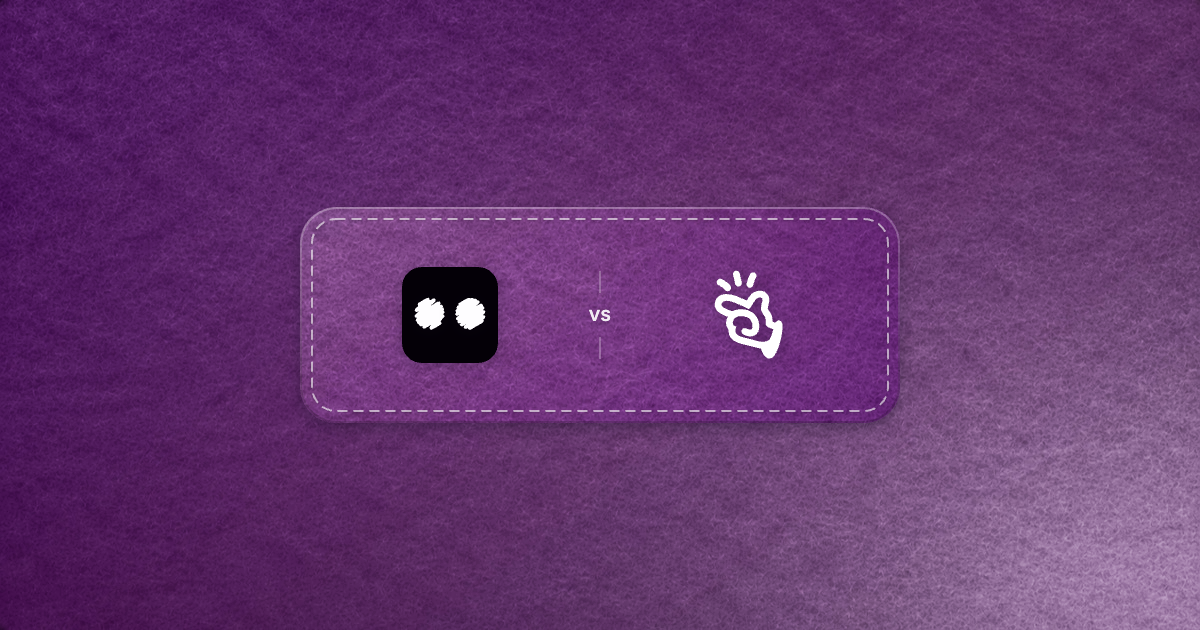
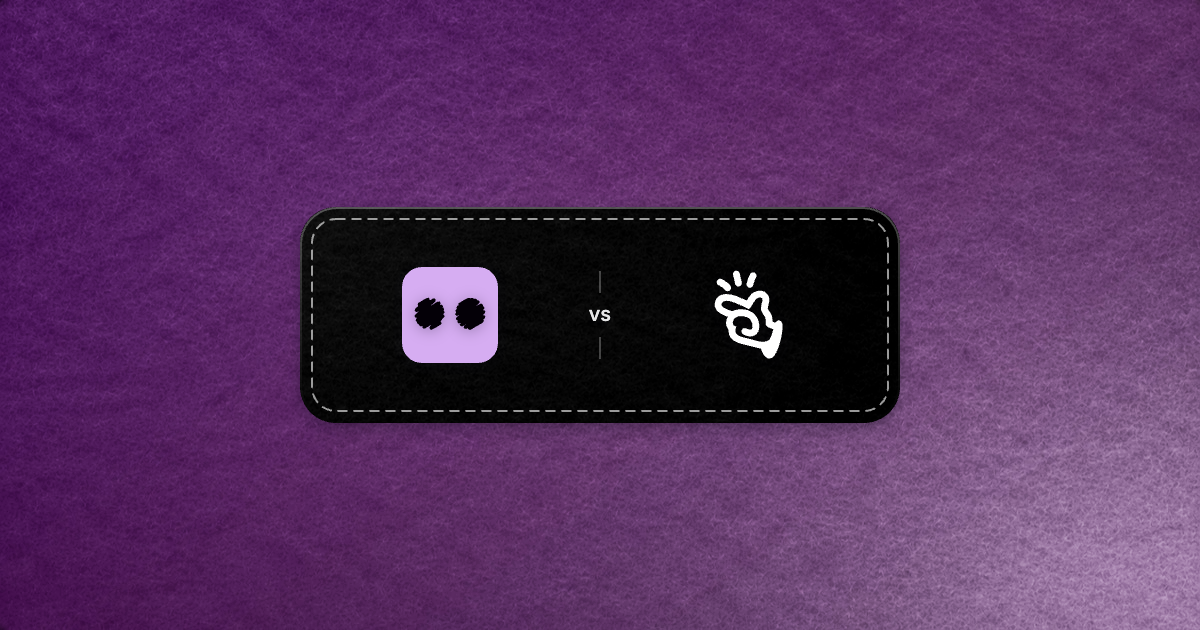
Make the compare card patches black felt
Every patch is now black felt, cut from the card's own felt without its
colour, so it never shows a gap on the wide roundup plate. OpenBot uses
its default lilac logo on it.

Changed region(s): [[0.2467, 0.3016, 0.7708, 0.6937]]

diff --git a/apps/auth-api/content-image-page.ts b/apps/auth-api/content-image-page.ts
@@ -25,8 +25,6 @@ const TITLE_MAX_LINES_WITH_LOCKUP = 2;
 /** `--openbot-logo-production` and `--openbot-logo-eye`. */
 const LOGO_BACKGROUND = "#d6adf2";
 const LOGO_EYE = "#040007";
-/** The black logo with light eyes from the brand rules, for the felt patch. */
-const DARK_LOGO = { background: "#040007", eye: "#fefdff" } as const;
 const LIGHT_LOGO = { background: LOGO_BACKGROUND, eye: LOGO_EYE } as const;
 
 /** The felt under a centred card is darkened to this average luma, so white marks on the patch stay readable. */
@@ -299,8 +297,8 @@ function drawCenteredLockup(context: CanvasRenderingContext2D, job: ContentImage
   const logoTop = y + (plateHeight - logoSize) / 2;
   context.save();
   setMarkShadow(context, unit);
-  drawMark(context, lockup.left?.mark ?? "openbot", x + plateWidth * 0.25 - logoSize / 2, logoTop, logoSize, DARK_LOGO);
-  drawMark(context, lockup.rivalMark, x + plateWidth * 0.75 - logoSize / 2, logoTop, logoSize, DARK_LOGO);
+  drawMark(context, lockup.left?.mark ?? "openbot", x + plateWidth * 0.25 - logoSize / 2, logoTop, logoSize);
+  drawMark(context, lockup.rivalMark, x + plateWidth * 0.75 - logoSize / 2, logoTop, logoSize);
   context.restore();
 
   // The hairline, broken around "vs".
@@ -353,7 +351,7 @@ function drawCenteredMarkRow(
   context.save();
   setMarkShadow(context, unit);
   marks.forEach((mark, index) => {
-    drawMark(context, mark, x + padX + index * (size + gap), y + padY, size, DARK_LOGO);
+    drawMark(context, mark, x + padX + index * (size + gap), y + padY, size);
   });
   context.restore();
 }
@@ -382,8 +380,8 @@ function drawMarkRow(
 }
 
 /**
- * A patch of the same felt sewn onto the card: a lighter piece cut from another
- * part of the background, a stitch just inside its edge and a short shadow.
+ * A patch of black felt sewn onto the card: a stitch just inside its edge, a
+ * cut edge lit from above and a short shadow.
  */
 function drawFeltPatch(
   context: CanvasRenderingContext2D,
@@ -412,11 +410,12 @@ function drawFeltPatch(
   context.save();
   roundedRect(context, x, y, width, height, radius);
   context.clip();
-  // Another part of the felt, turned half a turn, so its fibres do not line up.
-  context.translate(x + width / 2, y + height / 2);
+  // Black felt: the card's own felt without its colour, turned half a turn about
+  // the middle of the card so its fibres do not line up and it covers any plate.
+  context.translate(job.width / 2, job.height / 2);
   context.rotate(Math.PI);
-  context.filter = "brightness(1.14) saturate(1.05)";
-  context.drawImage(under, -job.width / 2 + 90 * unit, -job.height / 2 + 40 * unit);
+  context.filter = "grayscale(1) contrast(1.8) brightness(0.26)";
+  context.drawImage(under, -job.width / 2, -job.height / 2);
   context.restore();
 
   // The cut edge: lit at the top, in shade at the bottom.

diff --git a/changelog.d/site-social-images-teams-changelog-download.md b/changelog.d/site-social-images-teams-changelog-download.md
@@ -4,4 +4,4 @@
   and name. The agent name is now heavier, like the headlines of the openbot.run social cards.
   Agents that you published before keep their old preview until you publish them again.
 - Show the "openbot." wordmark on the link previews of the openbot.run news articles.
-- Show the logos of the compared apps on a felt patch in the middle of a felt background on the link previews of the openbot.run comparison pages.
+- Show the logos of the compared apps on a black felt patch in the middle of a felt background on the link previews of the openbot.run comparison pages.
